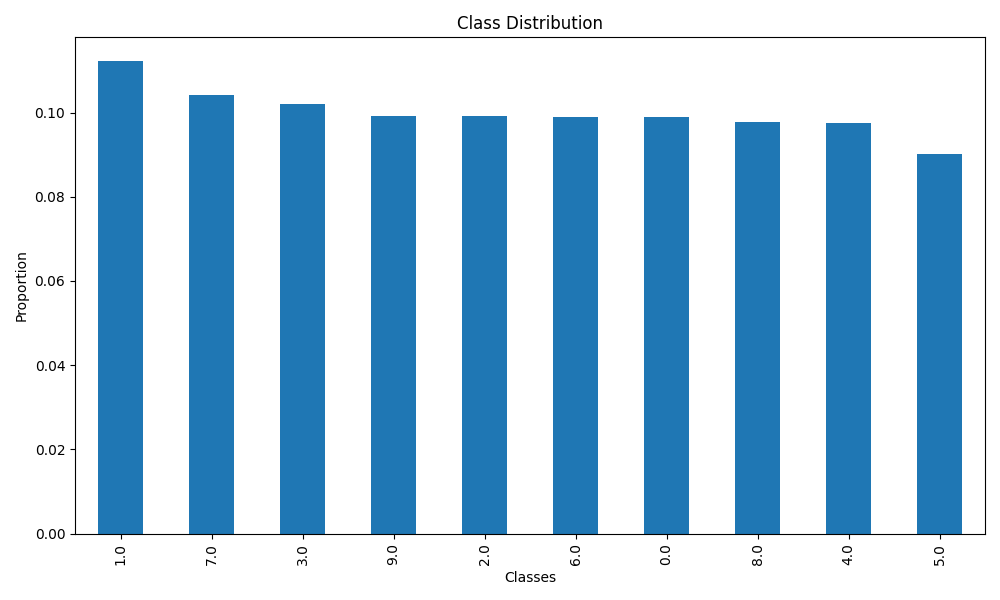
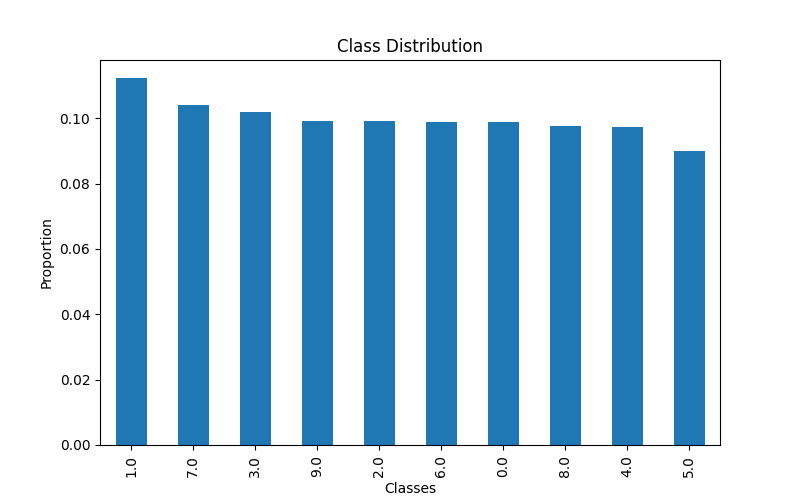
comuted with stacking

diff --git a/anothaone.py b/anothaone.py
@@ -13,174 +13,122 @@ from sklearn.svm import SVC
 from sklearn.metrics import classification_report, confusion_matrix, accuracy_score
 from imblearn.over_sampling import SMOTE
 
-# Comprehensive Data Validation
-def validate_dataset(data, stage='Initial'):
-    """
-    Perform comprehensive data validation
-    """
-    print(f"\n--- DATA VALIDATION ({stage}) ---")
-    
-    # Check for empty dataset
-    if data.empty:
-        raise ValueError("Dataset is empty!")
-    
-    # Basic information
-    print(f"Total rows: {len(data)}")
-    print(f"Total columns: {len(data.columns)}")
-    
-    # Check for NaNs
-    print("\nNaN Check:")
-    nan_counts = data.isna().sum()
-    print(nan_counts[nan_counts > 0])
-    
-    # Check unique values in Prediction
-    print("\nUnique Prediction Values:")
-    print(data['Prediction'].value_counts())
-    
-    # Check data types
-    print("\nData Types:")
-    print(data.dtypes)
-    
-    return data
+warnings.filterwarnings("ignore")
 
-# Data Loading and Preprocessing
 def load_and_preprocess_data(train_path):
-    # Load data
+    print(f"Loading data from '{train_path}'...")
     data = pd.read_csv(train_path)
+    print(f"Data loaded with shape: {data.shape}")
     
-    # Initial validation
-    validate_dataset(data, 'Initial')
-    
-    # Replace sentinel values
+    print("Replacing sentinel values (-999) with NaN...")
     data.replace({-999: np.nan}, inplace=True)
     
-    # Handle category columns
+    print("Converting categorical columns if needed...")
     category_columns = ['Magnetic Field Strength', 'Radiation Levels']
     for col in category_columns:
-        if data[col].dtype == 'object':
+        if col in data and data[col].dtype == 'object':
             data[col] = data[col].str.replace('Category_', '').astype(float)
     
-    # Remove rows with NaN in target variable
+    print("Dropping rows with missing target variable 'Prediction'...")
     data.dropna(subset=['Prediction'], inplace=True)
     
-    # Separate features and target
+    print("Separating features and target...")
     X = data.drop(columns=['Prediction'])
     y = data['Prediction']
     
-    # Create imputer for features
+    print("Imputing missing values in features using median strategy...")
     imputer = SimpleImputer(strategy='median')
+    X = pd.DataFrame(imputer.fit_transform(X), columns=X.columns)
+    print(f"Imputation complete. Final feature shape: {X.shape}")
     
-    # Impute missing values in features
-    X_imputed = pd.DataFrame(
-        imputer.fit_transform(X), 
-        columns=X.columns, 
-        index=X.index
-    )
-    
-    # Validate after imputation
-    validate_dataset(pd.concat([X_imputed, y], axis=1), 'After Imputation')
-    
-    return X_imputed, y
+    return X, y
 
-# Feature Diagnostics
 def feature_diagnostics(X, y):
-    # Class Distribution
-    print("\n--- CLASS DISTRIBUTION ---")
-    class_dist = pd.Series(y).value_counts(normalize=True)
-    print(class_dist)
-    
-    plt.figure(figsize=(10, 6))
-    class_dist.plot(kind='bar')
-    plt.title('Class Distribution')
+    print("Generating class distribution plot...")
+    plt.figure(figsize=(8, 5))
+    y.value_counts(normalize=True).plot(kind='bar', title='Class Distribution')
     plt.xlabel('Classes')
     plt.ylabel('Proportion')
-    plt.tight_layout()
     plt.savefig('class_distribution.png')
     plt.close()
+    print("Class distribution plot saved as 'class_distribution.png'.")
     
-    # Correlation Heatmap
-    plt.figure(figsize=(12, 10))
-    correlation_matrix = X.corr()
-    sns.heatmap(correlation_matrix, annot=True, cmap='coolwarm', center=0)
+    print("Generating correlation heatmap...")
+    plt.figure(figsize=(10, 8))
+    sns.heatmap(X.corr(), annot=True, cmap='coolwarm', center=0)
     plt.title('Feature Correlation Heatmap')
-    plt.tight_layout()
     plt.savefig('correlation_heatmap.png')
     plt.close()
+    print("Correlation heatmap saved as 'correlation_heatmap.png'.")
     
-    # Feature Importance
+    print("Calculating feature importance using RandomForestClassifier...")
     rf = RandomForestClassifier(n_estimators=100, random_state=42)
     rf.fit(X, y)
-    
     feature_importance = pd.DataFrame({
-        'feature': X.columns,
-        'importance': rf.feature_importances_
-    }).sort_values('importance', ascending=False)
+        'Feature': X.columns, 
+        'Importance': rf.feature_importances_
+    }).sort_values('Importance', ascending=False)
     
-    print("\n--- FEATURE IMPORTANCES ---")
-    print(feature_importance)
-    
-    plt.figure(figsize=(10, 6))
-    sns.barplot(x='importance', y='feature', data=feature_importance)
+    plt.figure(figsize=(8, 5))
+    sns.barplot(x='Importance', y='Feature', data=feature_importance)
     plt.title('Feature Importances')
-    plt.tight_layout()
     plt.savefig('feature_importances.png')
     plt.close()
+    print("Feature importance plot saved as 'feature_importances.png'.")
 
-# Main Execution
 def main():
-    try:
-        # Load and preprocess data
-        X, y = load_and_preprocess_data("cosmicclassifierTraining.csv")
-        
-        # Run feature diagnostics
-        feature_diagnostics(X, y)
-        
-        # Split data
-        X_train, X_val, y_train, y_val = train_test_split(X, y, test_size=0.2, random_state=42, stratify=y)
-        
-        # Apply SMOTE
-        smote = SMOTE(random_state=42)
-        X_train_resampled, y_train_resampled = smote.fit_resample(X_train, y_train)
-        
-        # Create base models
-        base_models = [
-            ('rf', RandomForestClassifier(random_state=42)),
-            ('gb', GradientBoostingClassifier(random_state=42)),
-            ('svm', SVC(probability=True, random_state=42))
-        ]
-
-        # Create stacking classifier
-        stacking_classifier = StackingClassifier(
-            estimators=base_models,
-            final_estimator=LogisticRegression(multi_class='ovr', max_iter=1000),
-            cv=5
-        )
-
-        # Scale the data
-        scaler = StandardScaler()
-        X_train_scaled = scaler.fit_transform(X_train_resampled)
-        X_val_scaled = scaler.transform(X_val)
-        
-        # Fit stacking classifier
-        stacking_classifier.fit(X_train_scaled, y_train_resampled)
-        
-        # Predict and evaluate
-        y_pred = stacking_classifier.predict(X_val_scaled)
-        
-        print("\n--- MODEL PERFORMANCE ---")
-        print("Classification Report:")
-        print(classification_report(y_val, y_pred))
-        
-        print("\nConfusion Matrix:")
-        print(confusion_matrix(y_val, y_pred))
-        
-        print(f"\nOverall Accuracy: {accuracy_score(y_val, y_pred)}")
+    print("=== Process Started: Data Loading and Preprocessing ===")
+    X, y = load_and_preprocess_data("cosmicclassifierTraining.csv")
+    print("=== Data Loading and Preprocessing Completed ===\n")
     
-    except Exception as e:
-        print(f"An error occurred: {e}")
-        import traceback
-        traceback.print_exc()
+    print("=== Running Feature Diagnostics ===")
+    feature_diagnostics(X, y)
+    print("=== Feature Diagnostics Completed ===\n")
+    
+    print("=== Splitting Data into Training and Validation Sets ===")
+    X_train, X_val, y_train, y_val = train_test_split(
+        X, y, test_size=0.2, random_state=42, stratify=y
+    )
+    print(f"Training set shape: {X_train.shape} | Validation set shape: {X_val.shape}\n")
+    
+    print("=== Applying SMOTE to Balance the Training Data ===")
+    smote = SMOTE(random_state=42)
+    X_train_resampled, y_train_resampled = smote.fit_resample(X_train, y_train)
+    print(f"SMOTE applied. Resampled training set shape: {X_train_resampled.shape}\n")
+    
+    print("=== Defining Base Models for Stacking Classifier ===")
+    base_models = [
+        ('rf', RandomForestClassifier(random_state=42)),
+        ('gb', GradientBoostingClassifier(random_state=42)),
+        ('svm', SVC(probability=True, random_state=42))
+    ]
+    
+    print("=== Creating Stacking Classifier ===")
+    stacking_classifier = StackingClassifier(
+        estimators=base_models,
+        final_estimator=LogisticRegression(multi_class='ovr', max_iter=1000),
+        cv=5
+    )
+    
+    print("=== Scaling Data ===")
+    scaler = StandardScaler()
+    X_train_scaled = scaler.fit_transform(X_train_resampled)
+    X_val_scaled = scaler.transform(X_val)
+    print("Data scaling complete.\n")
+    
+    print("=== Training Stacking Classifier ===")
+    stacking_classifier.fit(X_train_scaled, y_train_resampled)
+    print("Training complete.\n")
+    
+    print("=== Making Predictions on Validation Set ===")
+    y_pred = stacking_classifier.predict(X_val_scaled)
+    
+    print("\n--- MODEL PERFORMANCE ---")
+    print("Classification Report:")
+    print(classification_report(y_val, y_pred))
+    print("Confusion Matrix:")
+    print(confusion_matrix(y_val, y_pred))
+    print(f"Overall Accuracy: {accuracy_score(y_val, y_pred):.4f}")
 
-# Run the main function
 if __name__ == "__main__":
     main()
